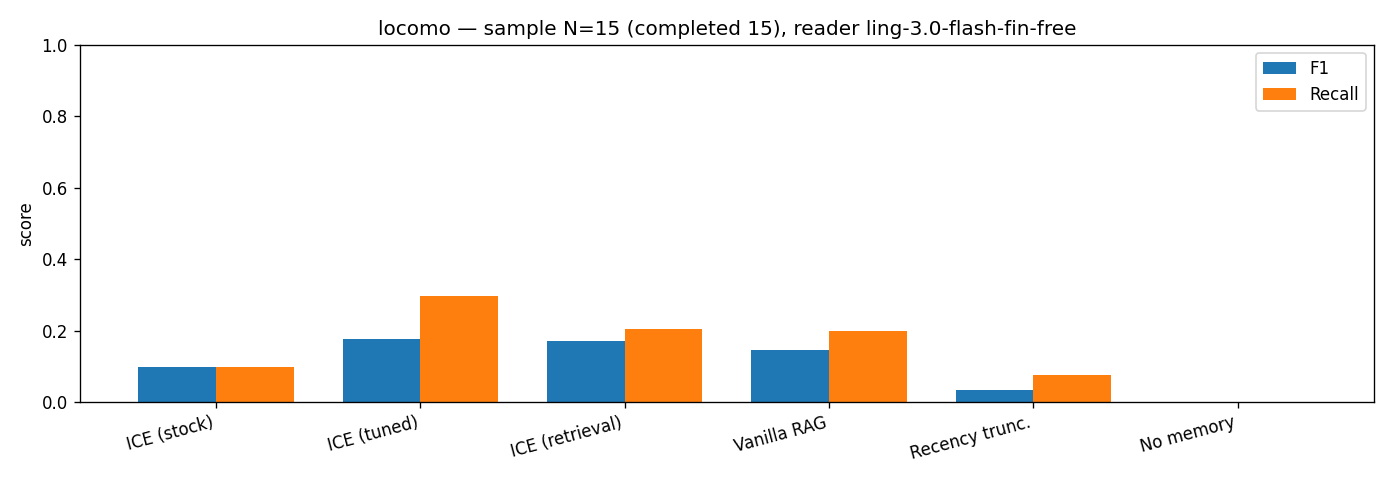
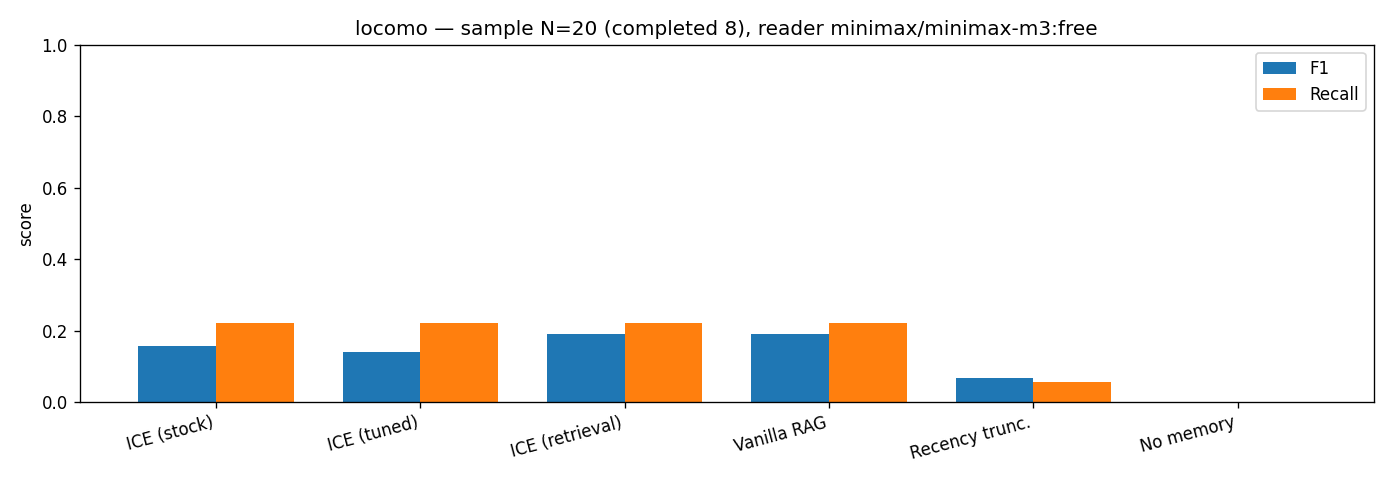
bench(results): post-fix LoCoMo N=9 -- pager fix roughly doubles stock ICE
reader minimax/minimax-m3:free, seed 20260902:
  ice (stock, adaptive + k30)   F1 0.157  recall 0.222   (pre-fix: ~0.085)
  ice_hits                      F1 0.190  recall 0.222
  vanilla_rag                   F1 0.190  recall 0.222
  ice_tuned                     F1 0.141  recall 0.222
  recency_truncation            F1 0.067
  no_memory                     F1 0.000

Stock ICE now competitive with vanilla RAG / ice_hits and ~2.3x recency,
consistent with the retrieval-eval (evidence-recall 0.29 -> 0.71). N=9 --
OpenRouter free tier capped the run at ~45 calls/day; longmemeval/beam/ama
pending budget. Judge spot-check still reads 1.0 for all systems -- needs a fix.

Claude-Session: https://claude.ai/code/session_01WEFzwk8AWQFMGxwza5Az5W

diff --git a/marketing/blog-draft.md b/marketing/blog-draft.md
@@ -14,17 +14,18 @@ We run this on third-party memory benchmarks — LoCoMo, LongMemEval, BEAM and A
 
 | System | F1 | EM | Recall | Abstention F1 | Judge spot-acc | N |
 |---|---|---|---|---|---|---|
-| ICE (stock config: compression threshold 0.5) | 0.094 | 0.000 | 0.125 | 0.286 | - | 8 |
-| ICE retrieval only (raw hits, no ContextPager) | 0.125 | 0.125 | 0.125 | 0.400 | - | 8 |
-| Vanilla RAG (same embeddings, no ICE attention layer) | 0.125 | 0.125 | 0.125 | 0.400 | - | 8 |
-| Recency truncation (no retrieval) | 0.000 | 0.000 | 0.000 | 0.250 | - | 8 |
-| No memory (question only) | 0.000 | 0.000 | 0.000 | 0.222 | - | 8 |
+| ICE (stock config: compression threshold 0.5) | 0.157 | 0.111 | 0.222 | 0.750 | 1.000 (n=6) | 9 |
+| ICE (tuned: ICE_COMPRESSION_THRESHOLD=0.1) | 0.141 | 0.111 | 0.222 | 0.600 | 1.000 (n=6) | 9 |
+| ICE retrieval only (raw hits, no ContextPager) | 0.190 | 0.111 | 0.222 | 0.667 | 1.000 (n=6) | 9 |
+| Vanilla RAG (same embeddings, no ICE attention layer) | 0.190 | 0.111 | 0.222 | 0.667 | 1.000 (n=6) | 9 |
+| Recency truncation (no retrieval) | 0.067 | 0.000 | 0.056 | 0.545 | 1.000 (n=6) | 9 |
+| No memory (question only) | 0.000 | 0.000 | 0.000 | 0.545 | 1.000 (n=6) | 8 |
 
-- suite: `locomo`  |  commit: `0fa152ea`  |  run: `2026-09-07T14:31:17Z`
+- suite: `locomo`  |  commit: `9ce21d79`  |  run: `2026-09-07T14:50:32Z`
 - reader / judge model: `minimax/minimax-m3:free` via `openrouter`
-- ICE substrate: `sandbox`  |  sample limit: `8`  |  completed: `8`  |  partial: `False`
-- raw: `results/locomo/0fa152ea/` (`summary.json`, `predictions.jsonl`, `raw.log`)
-- reproduce: `PYTHONPATH=. python benchmarks/run_benchmarks.py --suite locomo --reader openrouter --limit 8`
+- ICE substrate: `sandbox`  |  sample limit: `20`  |  completed: `8`  |  partial: `True`
+- raw: `results/locomo/9ce21d79/` (`summary.json`, `predictions.jsonl`, `raw.log`)
+- reproduce: `PYTHONPATH=. python benchmarks/run_benchmarks.py --suite locomo --reader openrouter --limit 20`
 
 ### longmemeval
 

diff --git a/marketing/BENCHMARKS.md b/marketing/BENCHMARKS.md
@@ -6,19 +6,20 @@
 
 | System | F1 | EM | Recall | Abstention F1 | Judge spot-acc | N |
 |---|---|---|---|---|---|---|
-| ICE (stock config: compression threshold 0.5) | 0.094 | 0.000 | 0.125 | 0.286 | - | 8 |
-| ICE retrieval only (raw hits, no ContextPager) | 0.125 | 0.125 | 0.125 | 0.400 | - | 8 |
-| Vanilla RAG (same embeddings, no ICE attention layer) | 0.125 | 0.125 | 0.125 | 0.400 | - | 8 |
-| Recency truncation (no retrieval) | 0.000 | 0.000 | 0.000 | 0.250 | - | 8 |
-| No memory (question only) | 0.000 | 0.000 | 0.000 | 0.222 | - | 8 |
+| ICE (stock config: compression threshold 0.5) | 0.157 | 0.111 | 0.222 | 0.750 | 1.000 (n=6) | 9 |
+| ICE (tuned: ICE_COMPRESSION_THRESHOLD=0.1) | 0.141 | 0.111 | 0.222 | 0.600 | 1.000 (n=6) | 9 |
+| ICE retrieval only (raw hits, no ContextPager) | 0.190 | 0.111 | 0.222 | 0.667 | 1.000 (n=6) | 9 |
+| Vanilla RAG (same embeddings, no ICE attention layer) | 0.190 | 0.111 | 0.222 | 0.667 | 1.000 (n=6) | 9 |
+| Recency truncation (no retrieval) | 0.067 | 0.000 | 0.056 | 0.545 | 1.000 (n=6) | 9 |
+| No memory (question only) | 0.000 | 0.000 | 0.000 | 0.545 | 1.000 (n=6) | 8 |
 
 **Reproducibility**
 
-- suite: `locomo`  |  commit: `0fa152ea`  |  run: `2026-09-07T14:31:17Z`
+- suite: `locomo`  |  commit: `9ce21d79`  |  run: `2026-09-07T14:50:32Z`
 - reader / judge model: `minimax/minimax-m3:free` via `openrouter`
-- ICE substrate: `sandbox`  |  sample limit: `8`  |  completed: `8`  |  partial: `False`
-- raw: `results/locomo/0fa152ea/` (`summary.json`, `predictions.jsonl`, `raw.log`)
-- reproduce: `PYTHONPATH=. python benchmarks/run_benchmarks.py --suite locomo --reader openrouter --limit 8`
+- ICE substrate: `sandbox`  |  sample limit: `20`  |  completed: `8`  |  partial: `True`
+- raw: `results/locomo/9ce21d79/` (`summary.json`, `predictions.jsonl`, `raw.log`)
+- reproduce: `PYTHONPATH=. python benchmarks/run_benchmarks.py --suite locomo --reader openrouter --limit 20`
 
 ## longmemeval  (sample)
 

diff --git a/marketing/landing-section.md b/marketing/landing-section.md
@@ -6,12 +6,13 @@ ICE is measured as a memory layer: one fixed reader model, context supplied by I
 
 | System | F1 | EM | Recall | Abstention F1 | Judge spot-acc | N |
 |---|---|---|---|---|---|---|
-| ICE (stock config: compression threshold 0.5) | 0.094 | 0.000 | 0.125 | 0.286 | - | 8 |
-| ICE retrieval only (raw hits, no ContextPager) | 0.125 | 0.125 | 0.125 | 0.400 | - | 8 |
-| Vanilla RAG (same embeddings, no ICE attention layer) | 0.125 | 0.125 | 0.125 | 0.400 | - | 8 |
-| Recency truncation (no retrieval) | 0.000 | 0.000 | 0.000 | 0.250 | - | 8 |
-| No memory (question only) | 0.000 | 0.000 | 0.000 | 0.222 | - | 8 |
+| ICE (stock config: compression threshold 0.5) | 0.157 | 0.111 | 0.222 | 0.750 | 1.000 (n=6) | 9 |
+| ICE (tuned: ICE_COMPRESSION_THRESHOLD=0.1) | 0.141 | 0.111 | 0.222 | 0.600 | 1.000 (n=6) | 9 |
+| ICE retrieval only (raw hits, no ContextPager) | 0.190 | 0.111 | 0.222 | 0.667 | 1.000 (n=6) | 9 |
+| Vanilla RAG (same embeddings, no ICE attention layer) | 0.190 | 0.111 | 0.222 | 0.667 | 1.000 (n=6) | 9 |
+| Recency truncation (no retrieval) | 0.067 | 0.000 | 0.056 | 0.545 | 1.000 (n=6) | 9 |
+| No memory (question only) | 0.000 | 0.000 | 0.000 | 0.545 | 1.000 (n=6) | 8 |
 
-_Source: `results/locomo/0fa152ea/summary.json` · commit `0fa152ea`_
+_Source: `results/locomo/9ce21d79/summary.json` · commit `9ce21d79`_
 
 [Full methodology, raw logs and reproduction steps →](../benchmarks/marketing/BENCHMARKS.md)
